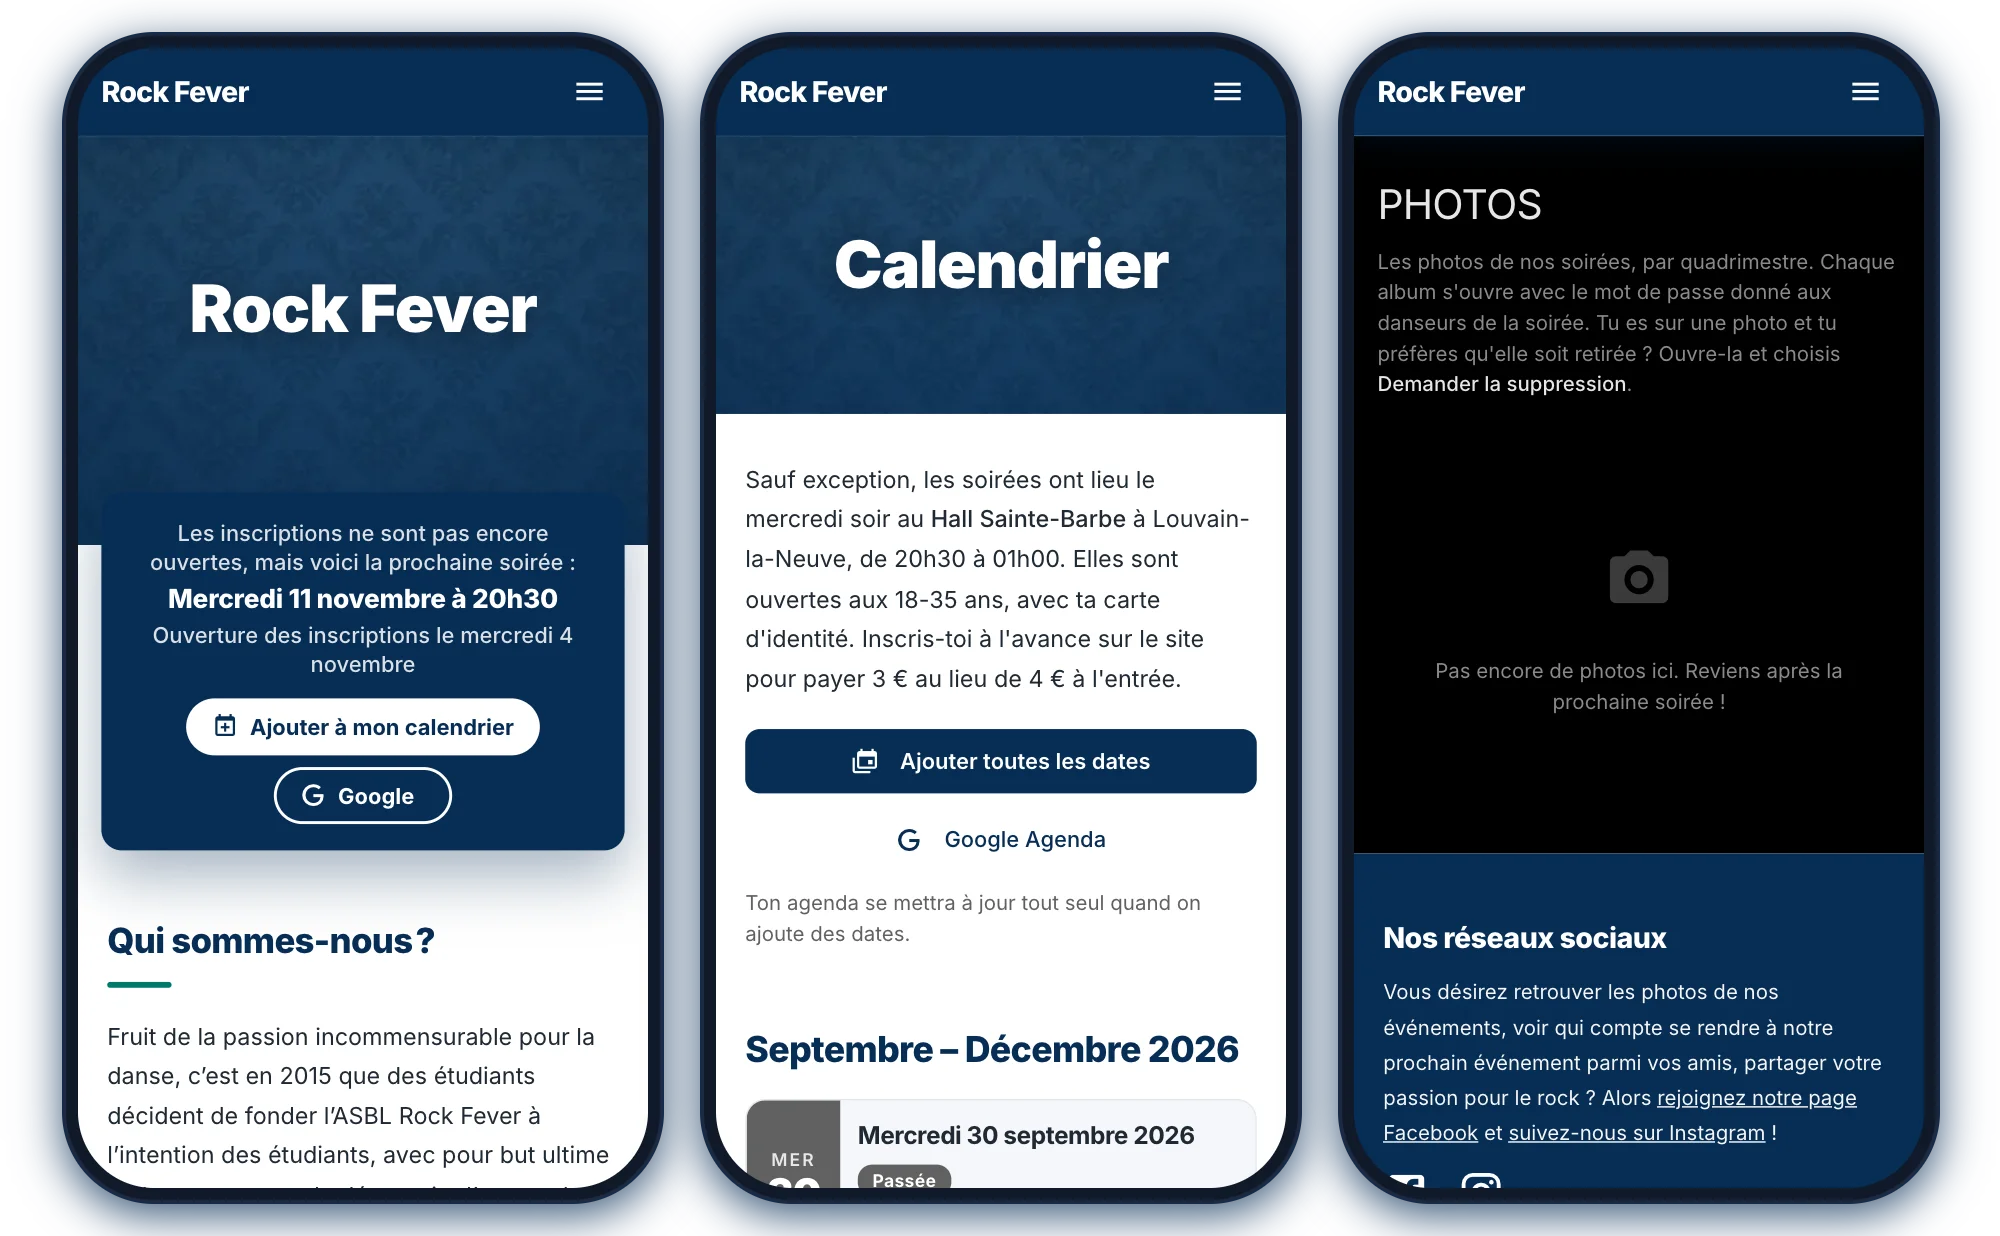
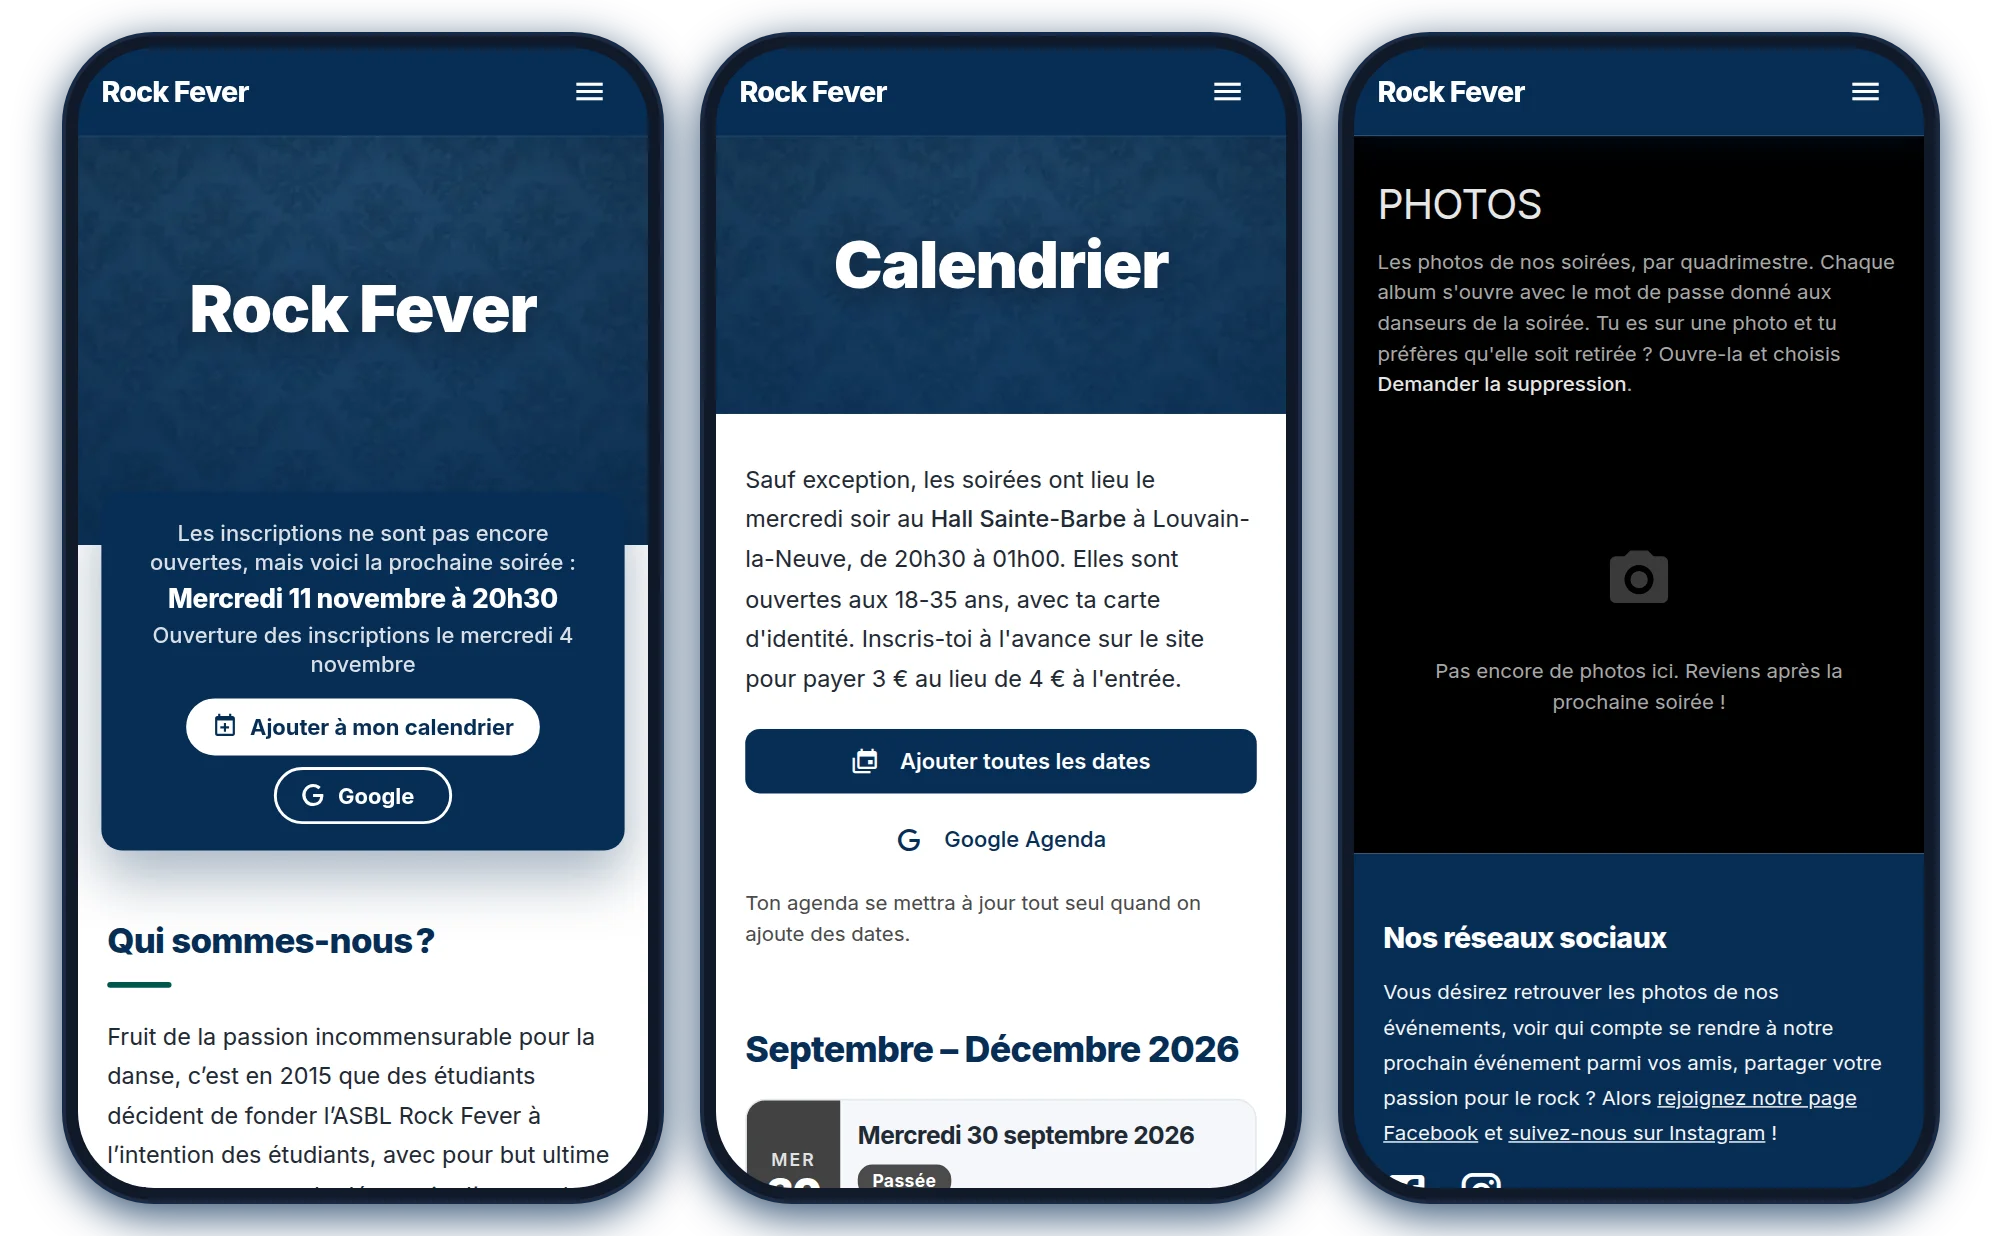
Give old soirées without prices no event markup

diff --git a/src/Events/Twig/EventsExtension.php b/src/Events/Twig/EventsExtension.php
@@ -50,8 +50,9 @@ class EventsExtension extends \Twig\Extension\AbstractExtension
 
     public function soireesJsonLd(array $soirees) : string
     {
-        // Twig's filter keeps the keys: a list, so that several events stay a JSON array
-        $events = array_map([$this->calendar, 'toSchema'], array_values($soirees));
+        // Twig's filter keeps the keys: a list, so that several events stay a JSON array. Old soirées no longer in the
+        // config have no prices, so no offers, which Google flags: they get no markup
+        $events = array_map([$this->calendar, 'toSchema'], array_values(array_filter($soirees, fn ($soiree) => $soiree['prices'])));
         if (!$events) {
             return '';
         }
